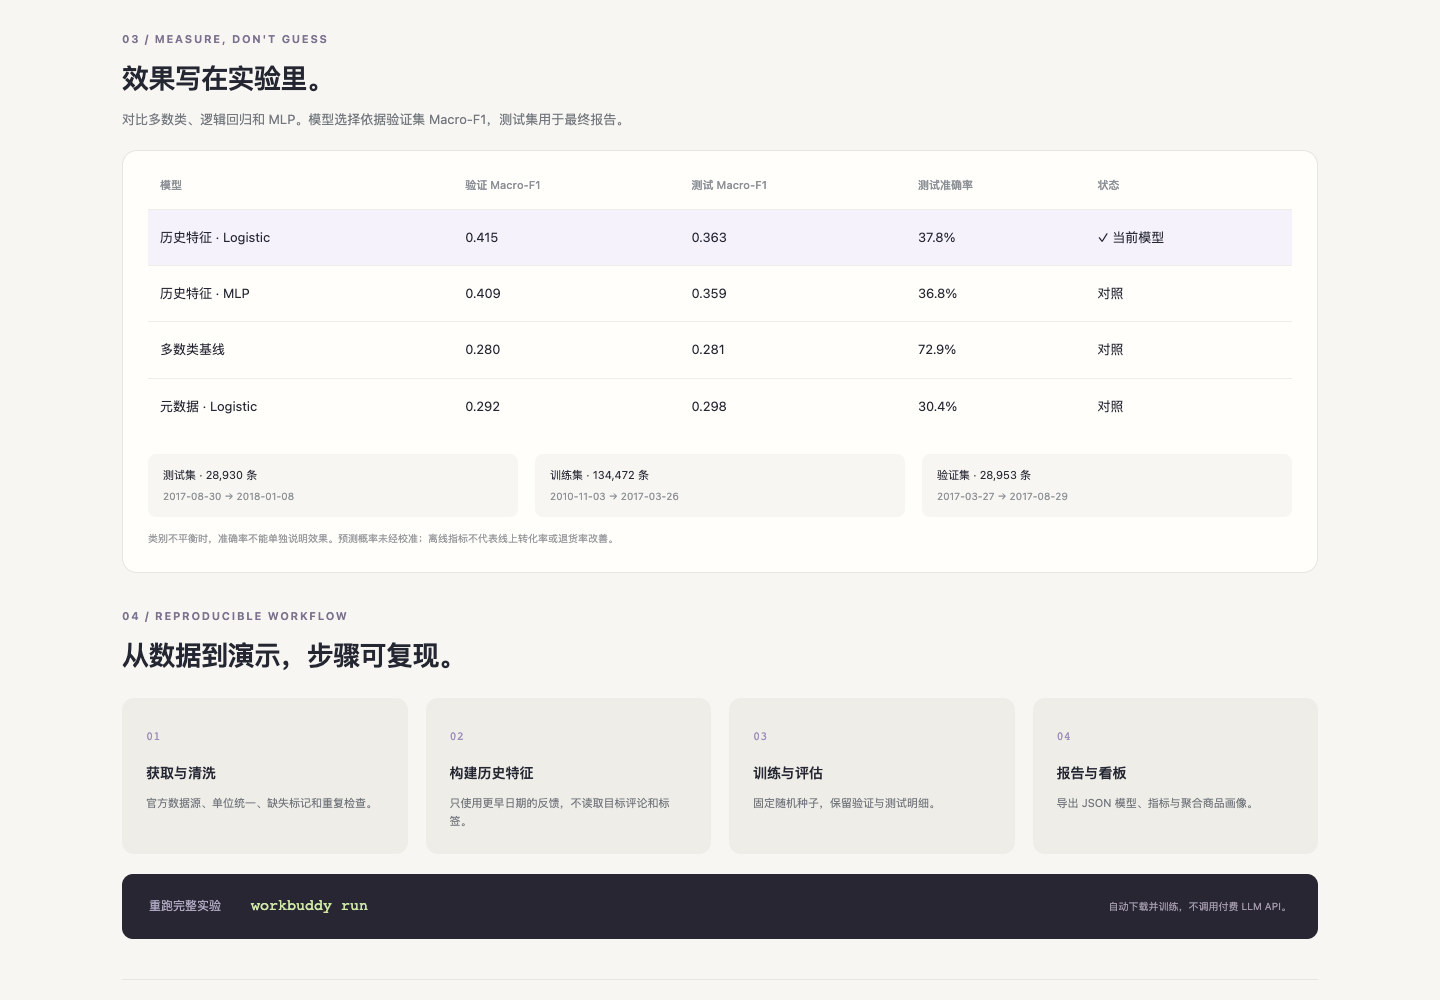
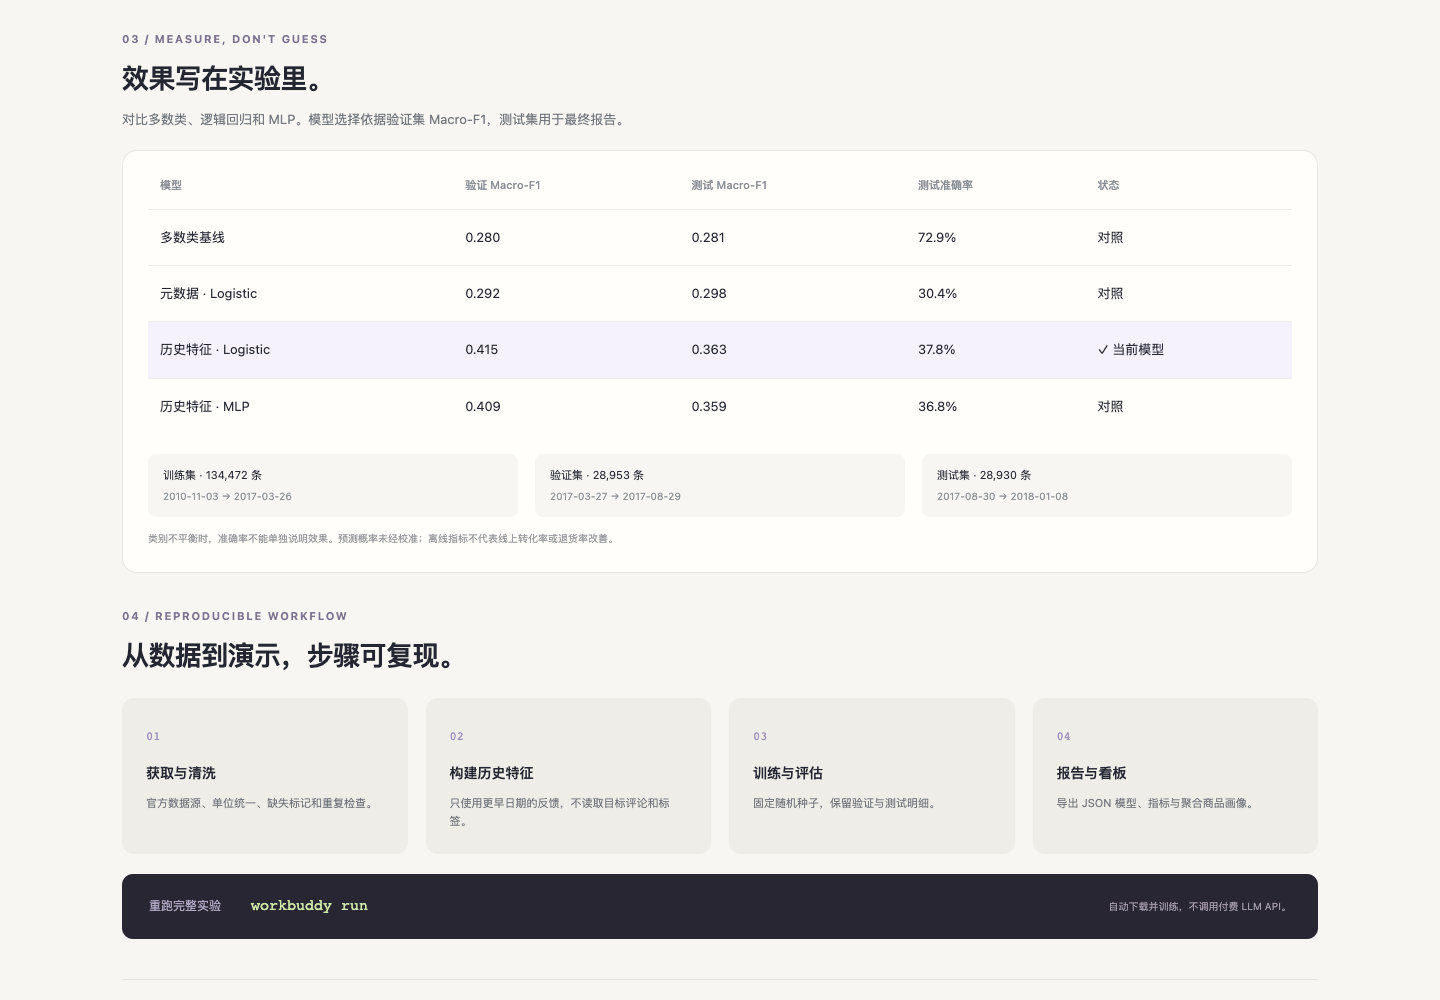
Keep experiment comparison and split timeline in a clear order

diff --git a/src/workbuddy/static/app.js b/src/workbuddy/static/app.js
@@ -221,7 +221,13 @@ async function start() {
       option.value = item.item_id;
       $("#item-select").append(option);
     }
-    for (const [name, result] of Object.entries(m.models)) {
+    for (const name of [
+      "majority",
+      "metadata_logistic",
+      "history_logistic",
+      "history_mlp",
+    ]) {
+      const result = m.models[name];
       const row = element(
         "tr",
         undefined,
@@ -236,7 +242,8 @@ async function start() {
       );
       $("#model-table").append(row);
     }
-    for (const [name, split] of Object.entries(m.splits)) {
+    for (const name of ["train", "validation", "test"]) {
+      const split = m.splits[name];
       const div = element(
         "div",
         { train: "训练集", validation: "验证集", test: "测试集" }[name] +

diff --git a/scripts/capture_demo.py b/scripts/capture_demo.py
@@ -35,6 +35,7 @@ def main():
         page.wait_for_selector(".candidate.best")
         assert page.locator("#body-type option").count() == 8
         assert page.locator("#engine option").count() == 2
+        assert page.locator(".split-summary > div").first.inner_text().startswith("训练集")
         page.add_style_tag(content="html {scroll-behavior:auto!important}")
 
         def frame(duration=1500):
